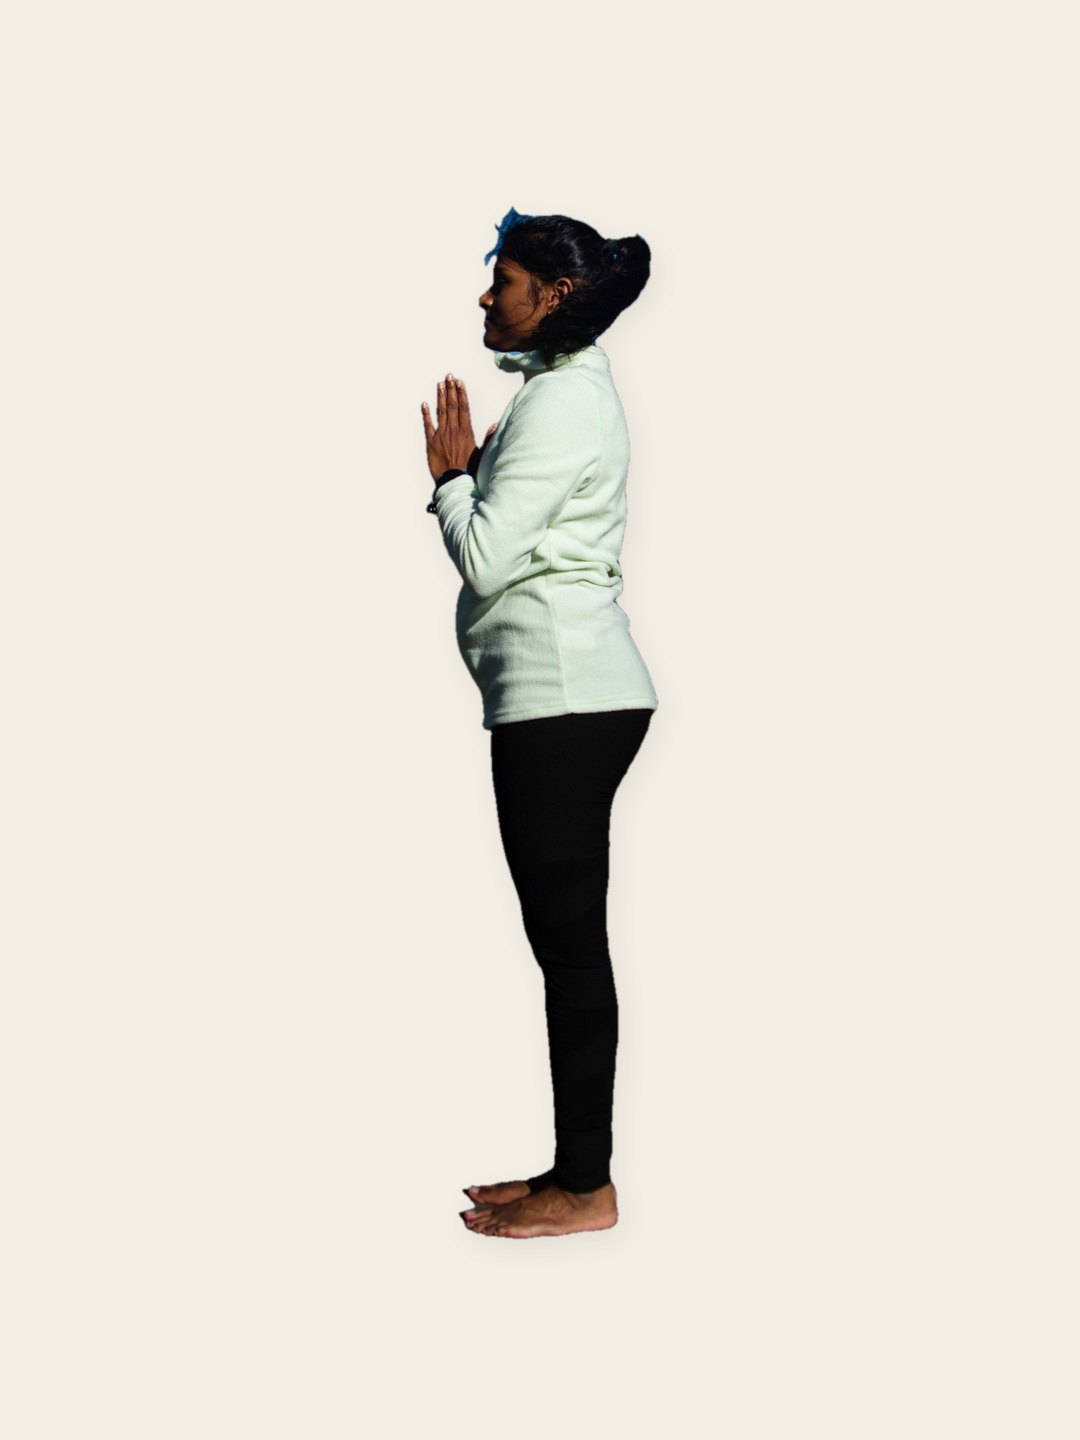
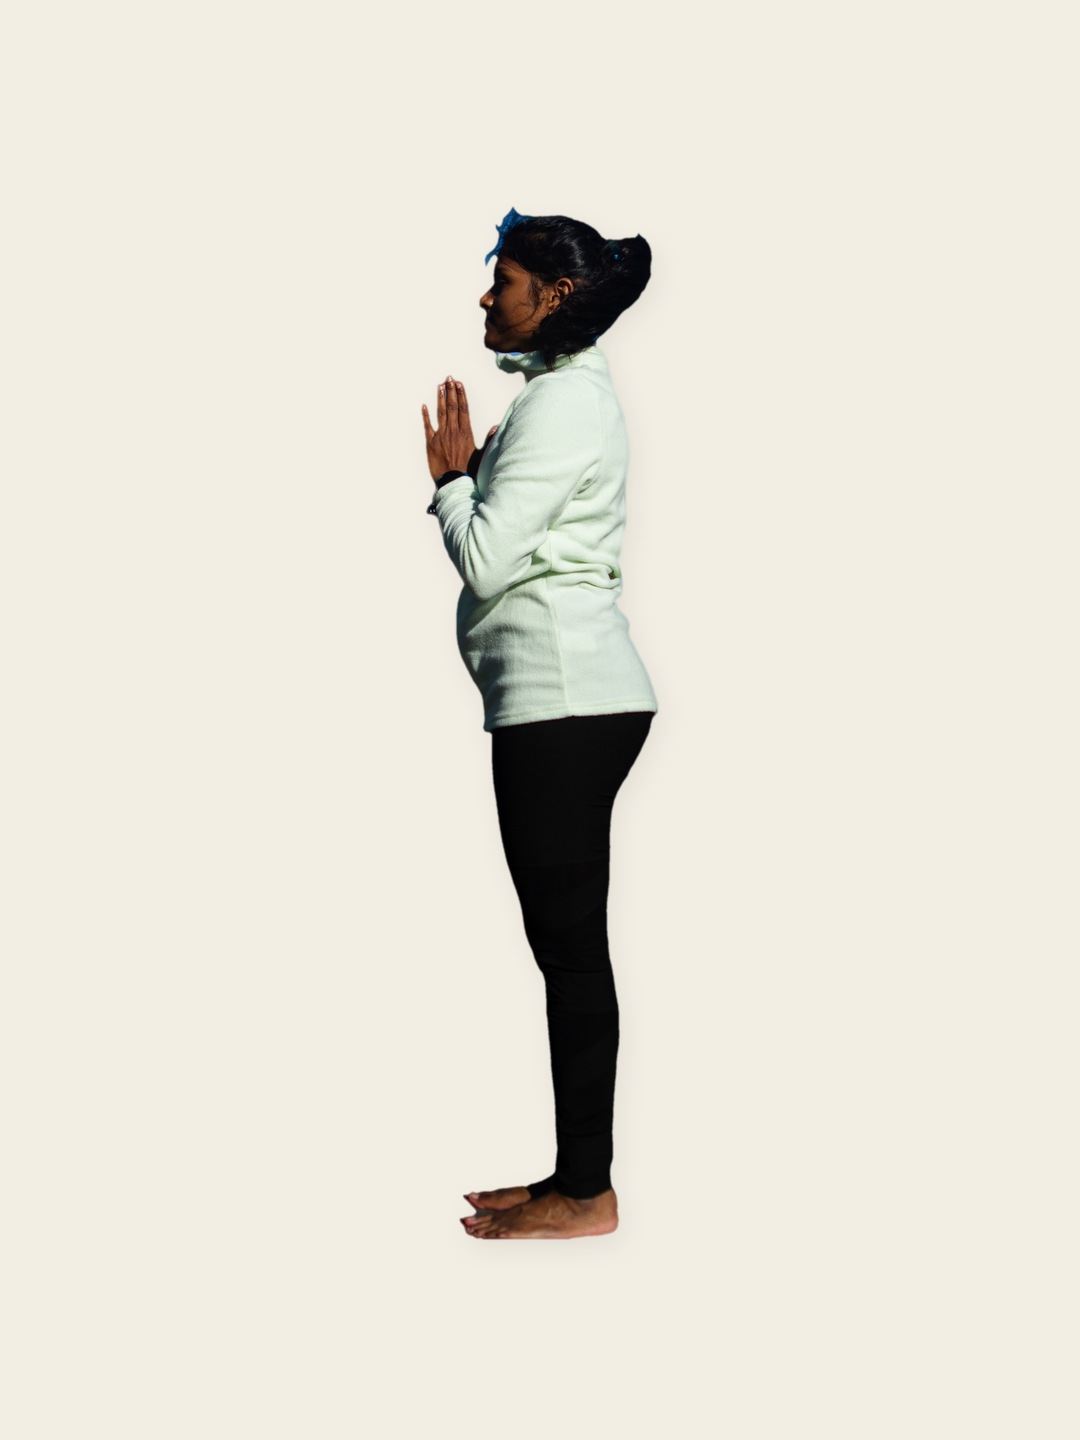
jeevana site: per-photo re-cut script, keyframes
Claude-Session: https://claude.ai/code/session_01XhuHXMUtaaY4hUgDgL1ofY

Changed region(s): [[0.3972, 0.2188, 0.5806, 0.4688], [0.4278, 0.7812, 0.5806, 0.875], [0.4583, 0.4688, 0.6111, 0.5312]]

diff --git a/deliverables/jeevana_site_2026-10-26/research/recut_one.py b/deliverables/jeevana_site_2026-10-26/research/recut_one.py
@@ -1,0 +1,29 @@
+#!/usr/bin/env python3
+"""Cut one figure with birefnet-general at capped resolution, decontaminate edges, trim the base sliver; update cutouts.json.
+description: one process per photo to bound memory. inputs: key, source file, out dir. outputs: <out>/<key>.png + json entry."""
+import sys, json, numpy as np
+from pathlib import Path
+from PIL import Image, ImageOps
+from rembg import remove, new_session
+from scipy import ndimage
+key, fn, out = sys.argv[1], sys.argv[2], Path(sys.argv[3])
+im = ImageOps.exif_transpose(Image.open(Path('_raw_assets') / fn)).convert('RGB'); im.thumbnail((7200, 3600))
+cut = remove(im, session=new_session('birefnet-general'), alpha_matting=False)
+A = np.asarray(cut.getchannel('A')); al = A > 128; lab, n = ndimage.label(al)
+if n > 1:
+    sizes = ndimage.sum(al, lab, range(1, n + 1)); al = lab == (int(np.argmax(sizes)) + 1)
+hard = ndimage.binary_erosion(al, iterations=3)
+rows = np.where(hard.any(axis=1))[0]; y1 = rows.max(); hard[y1 - int(0.004 * (y1 - rows.min())):y1 + 1, :] = False
+a = ndimage.gaussian_filter(hard.astype(np.float32), 1.5) * 255
+rgb = np.asarray(cut.convert('RGB')).astype(np.float32)
+inner = ndimage.binary_erosion(hard, iterations=5).astype(np.float32)
+num = np.stack([ndimage.gaussian_filter(rgb[..., c] * inner, 6) for c in range(3)], -1); den = ndimage.gaussian_filter(inner, 6)[..., None] + 1e-3
+edge = ((a > 0) & (~inner.astype(bool)))[..., None]; rgb = np.where(edge, num / den, rgb)
+o = Image.fromarray(np.clip(rgb, 0, 255).astype('uint8')).convert('RGBA'); o.putalpha(Image.fromarray(a.astype('uint8')))
+crop = o.crop(o.getbbox())
+if crop.height > 2600: crop = crop.resize((int(crop.width * 2600 / crop.height), 2600), Image.LANCZOS)
+out.mkdir(exist_ok=True); crop.save(out / f'{key}.png')
+A2 = np.asarray(crop.getchannel('A')); r2 = np.where(A2.max(axis=1) > 200)[0]; ground = (r2.max() + 1) / crop.height
+jp = out / 'cutouts.json'; meta = json.loads(jp.read_text()) if jp.exists() else {}
+meta[key] = {'file': f'{key}.png', 'source': fn, 'w': crop.width, 'h': crop.height, 'ground': round(float(ground), 4)}
+jp.write_text(json.dumps(meta, indent=1)); print(key, crop.size, meta[key]['ground'])

diff --git a/deliverables/jeevana_site_2026-10-26/research/figure_boxes.py b/deliverables/jeevana_site_2026-10-26/research/figure_boxes.py
@@ -1,0 +1,27 @@
+#!/usr/bin/env python3
+"""Figure boxes for the no-text-over-figure assertion.
+description: for each stitched keyframe research/keyframes/frame-NN.jpg (cream paper ground), the bbox of non-paper pixels
+  (|pixel - paper| ΔRGB > 28 after a 5 px median, components < 0.05 % dropped), normalised 0..1 to the 3:4 film frame,
+  plus the same box mapped into the 9:16 centre crop used for hero-m.mp4.
+usage: python3 research/figure_boxes.py  -> research/film/figure_boxes.json"""
+import json, glob, pathlib
+import numpy as np
+from PIL import Image, ImageFilter
+from scipy import ndimage
+R = pathlib.Path(__file__).parent
+out = {"source": "research/keyframes/frame-NN.jpg", "units": "fraction of frame", "landscape": [], "portrait": []}
+crop_w = (9 / 16) / (3 / 4)  # hero-m: crop=ih*9/16:ih of the 3:4 film
+for f in sorted(glob.glob(str(R / 'keyframes/frame-*.jpg'))):
+    im = Image.open(f).convert('RGB').filter(ImageFilter.MedianFilter(5)); a = np.asarray(im).astype(int); h, w, _ = a.shape
+    border = np.concatenate([a[:8].reshape(-1, 3), a[-8:].reshape(-1, 3), a[:, :8].reshape(-1, 3), a[:, -8:].reshape(-1, 3)])
+    paper = np.median(border, axis=0)
+    m = np.abs(a - paper).max(axis=2) > 28
+    lab, n = ndimage.label(m); sizes = ndimage.sum(m, lab, range(1, n + 1))
+    keep = np.isin(lab, [i + 1 for i, s in enumerate(sizes) if s > 0.0005 * h * w])
+    ys, xs = np.nonzero(keep)
+    b = [round(xs.min() / w, 4), round(ys.min() / h, 4), round((xs.max() + 1) / w, 4), round((ys.max() + 1) / h, 4)]
+    out["landscape"].append({"frame": pathlib.Path(f).name, "paper": [int(v) for v in paper], "box": b})
+    x0 = max(0, (b[0] - (1 - crop_w) / 2) / crop_w); x1 = min(1, (b[2] - (1 - crop_w) / 2) / crop_w)
+    out["portrait"].append({"frame": pathlib.Path(f).name, "box": [round(x0, 4), b[1], round(x1, 4), b[3]]})
+(R / 'film/figure_boxes.json').write_text(json.dumps(out, indent=1))
+for e in out["landscape"]: print(e["frame"], e["paper"], e["box"])
